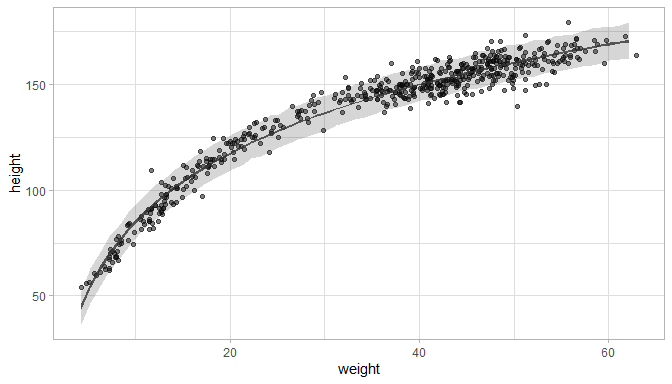
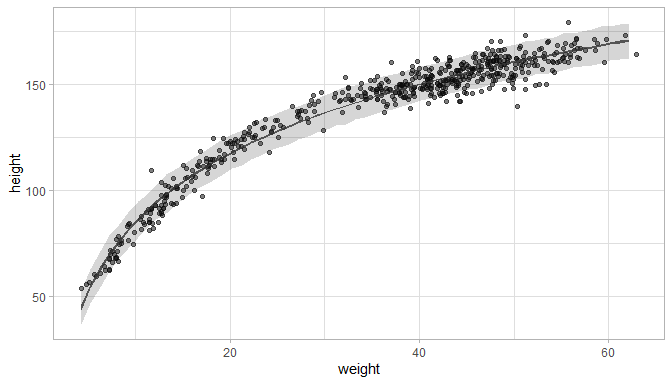
Finnish 4M3

diff --git a/chapter4.html b/chapter4.html
@@ -1643,37 +1643,37 @@ interval &lt;- pred_height %&gt;%
 <tr class="odd">
 <td align="center">1</td>
 <td align="center">46.95</td>
-<td align="center">135.4724</td>
-<td align="right">134.8499</td>
-<td align="right">136.0807</td>
+<td align="center">135.4674</td>
+<td align="right">134.8367</td>
+<td align="right">136.1374</td>
 </tr>
 <tr class="even">
 <td align="center">2</td>
 <td align="center">43.72</td>
-<td align="center">129.7755</td>
-<td align="right">129.1960</td>
-<td align="right">130.5147</td>
+<td align="center">129.7681</td>
+<td align="right">129.1220</td>
+<td align="right">130.5012</td>
 </tr>
 <tr class="odd">
 <td align="center">3</td>
 <td align="center">64.78</td>
-<td align="center">166.9195</td>
-<td align="right">165.9695</td>
-<td align="right">167.8406</td>
+<td align="center">166.9279</td>
+<td align="right">166.0306</td>
+<td align="right">167.9298</td>
 </tr>
 <tr class="even">
 <td align="center">4</td>
 <td align="center">32.59</td>
-<td align="center">110.1453</td>
-<td align="right">109.2154</td>
-<td align="right">111.1033</td>
+<td align="center">110.1296</td>
+<td align="right">109.0477</td>
+<td align="right">111.0026</td>
 </tr>
 <tr class="odd">
 <td align="center">5</td>
 <td align="center">54.63</td>
-<td align="center">149.0177</td>
-<td align="right">148.3569</td>
-<td align="right">149.6684</td>
+<td align="center">149.0185</td>
+<td align="right">148.3576</td>
+<td align="right">149.7455</td>
 </tr>
 </tbody>
 </table>
@@ -1715,24 +1715,24 @@ interval &lt;- pred_height %&gt;%
 <tbody>
 <tr class="odd">
 <td align="left">a</td>
-<td align="center">-22.87558</td>
-<td align="right">1.3342858</td>
-<td align="right">-25.008027</td>
-<td align="right">-20.743134</td>
+<td align="center">-22.873562</td>
+<td align="right">1.3342944</td>
+<td align="right">-25.006022</td>
+<td align="right">-20.741102</td>
 </tr>
 <tr class="even">
 <td align="left">b</td>
-<td align="center">46.81815</td>
-<td align="right">0.3823226</td>
-<td align="right">46.207123</td>
-<td align="right">47.429173</td>
+<td align="center">46.817570</td>
+<td align="right">0.3823250</td>
+<td align="right">46.206541</td>
+<td align="right">47.428599</td>
 </tr>
 <tr class="odd">
 <td align="left">sigma</td>
-<td align="center">5.13708</td>
-<td align="right">0.1558840</td>
-<td align="right">4.887947</td>
-<td align="right">5.386212</td>
+<td align="center">5.137093</td>
+<td align="right">0.1558852</td>
+<td align="right">4.887959</td>
+<td align="right">5.386228</td>
 </tr>
 </tbody>
 </table>
@@ -1783,7 +1783,7 @@ pred_intervals &lt;- tidy_intervals(sim, m_log, PI,
     geom_ribbon(aes(x = x_var, ymin = lower, ymax = upper),
                 alpha=0.2, data = pred_intervals) +
     theme_light()</code></pre>
[2 lines of base64/hex data omitted]
 <p>This looks like a decent fit. Let’s make a function of the ggplot, so we can call it later on:</p>
 <pre class="r"><code>plot_regression &lt;- function(df, x, y, # results, 
                             interv = intervals, pred_interv = pred_intervals){
@@ -1838,9 +1838,10 @@ m_poly_mu &lt;- link(m_poly, post = m_poly_prior,
          name = as.factor(name))</code></pre>
 <pre class="r"><code># plot it
 ggplot(m_poly_mu, aes(x = weight_s, y = height)) +
-  geom_hline(yintercept = c(0, 272)) +
-  geom_line(aes(group = name))</code></pre>
[1 lines of base64/hex data omitted]
+  geom_hline(yintercept = c(0, 272), colour = &quot;coral&quot;) +
+  geom_line(aes(group = name)) +
+  theme_light()</code></pre>
[1 lines of base64/hex data omitted]
 <p>Unfortunately, I get straight lines and no parabolas. I couldn’t figure out why this is. To compare my results with those from McElreath himself, follow <a href="https://github.com/rmcelreath/statrethinking_winter2019/blob/master/homework/week02_solutions.pdf">this link</a>.</p>
 </div>
 </div>
@@ -1856,6 +1857,44 @@ ggplot(m_poly_mu, aes(x = weight_s, y = height)) +
 <p><span class="math inline">\(y_{i} ∼ Normal(μ,σ)\)</span><br />
 <span class="math inline">\(μ ∼ Normal(0,10)\)</span><br />
 <span class="math inline">\(σ ∼ Exponential(1)\)</span></p>
+<p>We can simply sample from each prior distribution:</p>
+<pre class="r"><code># sample mu
+sample_mu &lt;- rnorm(1e4, 0, 10)
+
+# sample sigma
+sample_sigma &lt;- rexp(1e4, 1)
+
+# sample y
+prior_y &lt;- rnorm(1e4, sample_mu, sample_sigma) %&gt;% 
+  enframe()
+
+# plot
+ggplot(prior_y) +
+  geom_density(aes(value), size = 1) + 
+  theme_light()</code></pre>
[1 lines of base64/hex data omitted]
+</div>
+<div id="question-4m2" class="section level2" number="4.2">
+<h2 number="4.2"><span class="header-section-number">4.2</span> Question 4M2</h2>
+<p><strong>Translate the model just above into a <code>map()</code> formula</strong></p>
+<pre class="r"><code>map_frm &lt;- alist(y ~ dnorm(mu, sigma), 
+                 mu ~ dnorm(0, 10), 
+                 sigma ~ dexp(1)) </code></pre>
+</div>
+<div id="question-4m3" class="section level2" number="4.3">
+<h2 number="4.3"><span class="header-section-number">4.3</span> Question 4M3</h2>
+<p><strong>Translate the <code>map()</code> model formula below into a mathematical model definition.</strong></p>
+<pre class="r"><code>flist &lt;- alist(
+  y ~ dnorm(mu, sigma),
+  mu &lt;- a + b*x,
+  a ~ dnorm(0, 50),
+  b ~ dunif(0, 10),
+  sigma ~ dunif(0, 50))</code></pre>
+<p><span class="math inline">\(y_{1} ∼ Normal(μ,σ)\)</span><br />
+<span class="math inline">\(μ ∼ α + βx_{1}\)</span><br />
+<span class="math inline">\(α ∼ Normal(0, 50)\)</span><br />
+<span class="math inline">\(β = Uniform(0, 10)\)</span><br />
+<span class="math inline">\(σ ∼ Uniform(0, 50)\)</span></p>
 </div>
 </div>
 

diff --git a/chapter4.md b/chapter4.md
@@ -93,11 +93,11 @@ tibble(individual = 1:5, weight = new_weight, expected = expected,
 
 | individual | weight | expected |    lower|    upper|
 |:----------:|:------:|:--------:|--------:|--------:|
-|     1      | 46.95  | 135.4724 | 134.8499| 136.0807|
-|     2      | 43.72  | 129.7755 | 129.1960| 130.5147|
-|     3      | 64.78  | 166.9195 | 165.9695| 167.8406|
-|     4      | 32.59  | 110.1453 | 109.2154| 111.1033|
-|     5      | 54.63  | 149.0177 | 148.3569| 149.6684|
+|     1      | 46.95  | 135.4674 | 134.8367| 136.1374|
+|     2      | 43.72  | 129.7681 | 129.1220| 130.5012|
+|     3      | 64.78  | 166.9279 | 166.0306| 167.9298|
+|     4      | 32.59  | 110.1296 | 109.0477| 111.0026|
+|     5      | 54.63  | 149.0185 | 148.3576| 149.7455|
 
 ## Question 2
 
@@ -141,11 +141,11 @@ precis(m_log) %>% as_tibble() %>%
 
 
 
-|parameter |   mean    |        sd|      lower|      upper|
-|:---------|:---------:|---------:|----------:|----------:|
-|a         | -22.87558 | 1.3342858| -25.008027| -20.743134|
-|b         | 46.81815  | 0.3823226|  46.207123|  47.429173|
-|sigma     |  5.13708  | 0.1558840|   4.887947|   5.386212|
+|parameter |    mean    |        sd|      lower|      upper|
+|:---------|:----------:|---------:|----------:|----------:|
+|a         | -22.873562 | 1.3342944| -25.006022| -20.741102|
+|b         | 46.817570  | 0.3823250|  46.206541|  47.428599|
+|sigma     |  5.137093  | 0.1558852|   4.887959|   5.386228|
 
 Instead of trying to read these estimates, we can just visualise our model. Let's calculate the predicted mean height as a function of weight, the 97% PI for the mean, and the 97% PI for predicted heights as explained on page 108.  
   
@@ -289,8 +289,9 @@ m_poly_mu <- link(m_poly, post = m_poly_prior,
 ```r
 # plot it
 ggplot(m_poly_mu, aes(x = weight_s, y = height)) +
-  geom_hline(yintercept = c(0, 272)) +
-  geom_line(aes(group = name))
+  geom_hline(yintercept = c(0, 272), colour = "coral") +
+  geom_line(aes(group = name)) +
+  theme_light()
 ```
 
 ![](chapter4_files/figure-html/question 3 part 4-1.png)<!-- -->
@@ -307,9 +308,61 @@ All the easy questions don't require new R code and are already covered by [Jeff
 ## Question 4M1
   
 **For the model definition below, simulate observed y values from the prior (not the posterior).**  
-
+  
 $y_{i} ∼ Normal(μ,σ)$  
 $μ ∼ Normal(0,10)$  
 $σ ∼ Exponential(1)$  
   
+We can simply sample from each prior distribution:  
 
+
+```r
+# sample mu
+sample_mu <- rnorm(1e4, 0, 10)
+
+# sample sigma
+sample_sigma <- rexp(1e4, 1)
+
+# sample y
+prior_y <- rnorm(1e4, sample_mu, sample_sigma) %>% 
+  enframe()
+
+# plot
+ggplot(prior_y) +
+  geom_density(aes(value), size = 1) + 
+  theme_light()
+```
+
+![](chapter4_files/figure-html/question 4M1-1.png)<!-- -->
+
+
+## Question 4M2  
+  
+**Translate the model just above into a `map()` formula**
+  
+
+```r
+map_frm <- alist(y ~ dnorm(mu, sigma), 
+                 mu ~ dnorm(0, 10), 
+                 sigma ~ dexp(1)) 
+```
+
+## Question 4M3  
+
+**Translate the `map()` model formula below into a mathematical model definition.**  
+  
+
+```r
+flist <- alist(
+  y ~ dnorm(mu, sigma),
+  mu <- a + b*x,
+  a ~ dnorm(0, 50),
+  b ~ dunif(0, 10),
+  sigma ~ dunif(0, 50))
+```
+
+$y_{1} ∼ Normal(μ,σ)$  
+$μ ∼ α + βx_{1}$  
+$α ∼ Normal(0, 50)$   
+$β = Uniform(0, 10)$  
+$σ ∼ Uniform(0, 50)$
